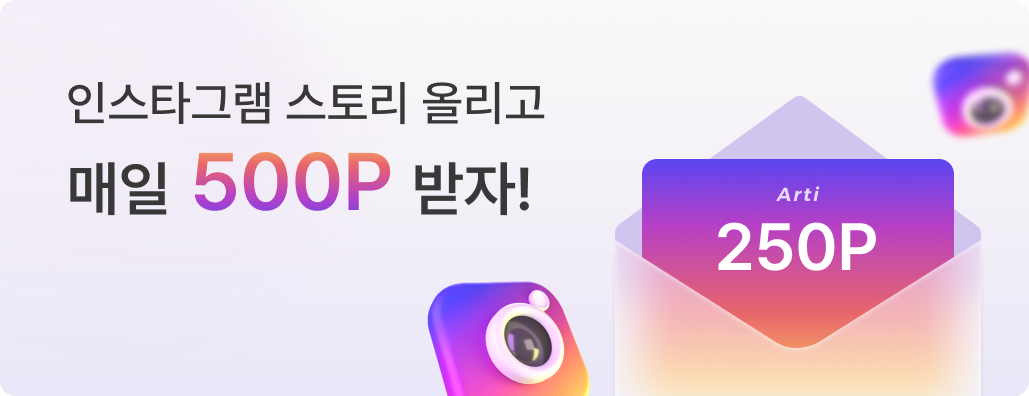
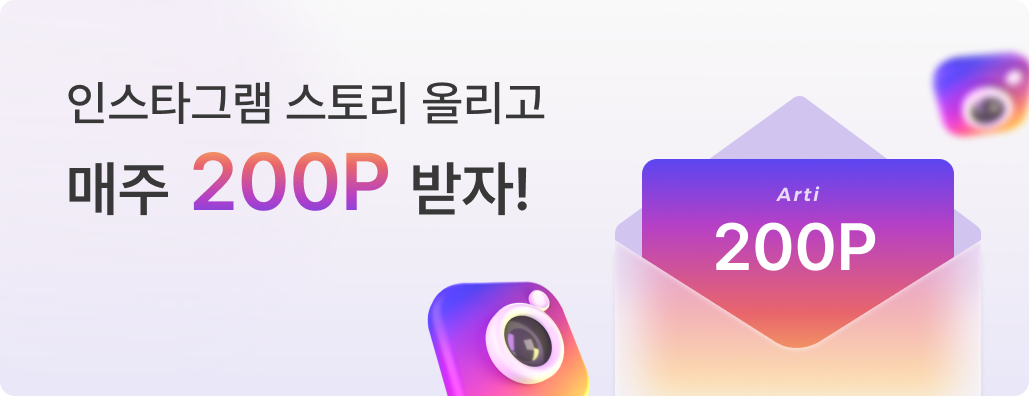
chore : 변경사항 반영

Changed region(s): [[0.0622, 0.3939, 0.5287, 0.5455], [0.6842, 0.5455, 0.8397, 0.6667], [0.4043, 0.5152, 0.4354, 0.5455]]

diff --git a/src/components/getPoint/PointMain.tsx b/src/components/getPoint/PointMain.tsx
@@ -145,13 +145,13 @@ const PointMain = () => {
 						{/* 미션 안했고 월요일 아님 */}
 						{missionList?.mission.story && !isMonday ? (
 							<Group onClick={() => router.push(`/mypage/point//mission?type=story`)}>
-								<div className="point-text">500P</div>
+								<div className="point-text">200P</div>
 								<StyledFiChevronRight2 size="26px" />
 							</Group>
 						// 미션 안했고 월요일임
 						) : missionList?.mission.story && isMonday ? (
-							<Group onClick={() => alert('월요일에만 가능한 미션이에요!')}>
-								<div className="point-text">500P</div>
+							<Group onClick={() => alert('월요일에는 불가능한 미션이에요!')}>
+								<div className="point-text">200P</div>
 								<StyledFiChevronRight2 size="26px" />
 							</Group>
 						) : (
@@ -169,7 +169,7 @@ const PointMain = () => {
 							<div className="possible-circle" />
 							<div className="mission-name">친구 초대</div>
 						</Group>
-							<Group onClick={() => router.push(`/mypage/point//mission?type=freind`)}>
+							<Group onClick={() => router.push(`/mypage/point//mission?type=friend`)}>
 								<div className="point-text">1500P</div>
 								<StyledFiChevronRight2 size="26px" />
 							</Group>

diff --git a/src/components/getPoint/mission/FriendInviteMission.tsx b/src/components/getPoint/mission/FriendInviteMission.tsx
@@ -6,7 +6,7 @@ import { getInviteFreindResult, getMyInviteCode } from '@/apis/getPoint';
 import { InviteResultType } from '@/types/request';
 import useCopyClipBoard from '@/hooks/useCopyClipBoard';
 
-const FreindInviteMission = () => {
+const FriendInviteMission = () => {
 	const [inviteCode, setinviteCode] = useState<string>();
 	const [inviteResult, setinviteResult] = useState<InviteResultType>();
 	const [isCopy, onCopy] = useCopyClipBoard();
@@ -44,7 +44,7 @@ const FreindInviteMission = () => {
 			<Top>
 				<PointHeader text="친구 초대" backTo="/mypage/point" />
 				<ContentSection>
-					<StyledImage src="/img/freindMissionBanner.png" alt="친구초대 미션 배너" fill priority />
+					<StyledImage src="/img/friendMissionBanner.png" alt="친구초대 미션 배너" fill priority />
 					<CodeBox>
 						<div className="text">나의 초대 코드</div>
 						<div className="invite-code">{inviteCode}</div>
@@ -91,7 +91,7 @@ const FreindInviteMission = () => {
 	);
 };
 
-export default FreindInviteMission;
+export default FriendInviteMission;
 
 const MainWrapper = styled.div`
 	width: 100%;

diff --git a/src/components/getPoint/PointMission.tsx b/src/components/getPoint/PointMission.tsx
@@ -5,8 +5,8 @@ import CommentMission from './mission/CommentMission';
 import VoteMission from './mission/VoteMission';
 import StoryMission from './mission/StoryMission';
 import FollowMission from './mission/FollowMission';
-import FreindInviteMission from './mission/FreindInviteMission';
 import VisitMission from './mission/VisitMission';
+import FriendInviteMission from './mission/FriendInviteMission';
 
 const PointMission = () => {
 	const params = useSearchParams();
@@ -24,8 +24,8 @@ const PointMission = () => {
 				return <StoryMission />;
 			case 'follow':
 				return <FollowMission />;
-			case 'freind':
-				return <FreindInviteMission />;
+			case 'friend':
+				return <FriendInviteMission />;
 			default:
 				return <div>미션이 존재하지 않습니다</div>; // 나중에 에러 컴포넌트 반환
 		}

diff --git a/src/components/getPoint/mission/StoryMission.tsx b/src/components/getPoint/mission/StoryMission.tsx
@@ -62,7 +62,7 @@ const StoryMission = () => {
 						<StyledImage src="/img/storyBanner.png" alt="스토리 올리기 미션 배너" fill priority />
 						<Span>
 							<div className="detail">@arti_fashion_design 인스타그램 계정을</div>
-							스토리에 올리면 <span className="bold">250P</span>를 획득할 수 있어요
+							스토리에 올리면 <span className="bold">200P</span>를 획득할 수 있어요
 						</Span>
 						<div className="state">
 							<StyledImage src="/img/missionstate2.png" alt="팔로우 미션 상태" fill priority />

diff --git a/src/components/getPoint/mission/FollowMission.tsx b/src/components/getPoint/mission/FollowMission.tsx
@@ -64,7 +64,7 @@ const FollowMission = () => {
 						<StyledImage src="/img/followBanner.png" alt="팔로우 미션 배너" fill priority />
 						<Span>
 							<div className="detail">@arti_fashion_design 인스타그램 계정을</div>
-							팔로우하면 <span className="bold">250P</span>를 획득할 수 있어요
+							팔로우하면 <span className="bold">500P</span>를 획득할 수 있어요
 						</Span>
 						<div className="state">
 							<StyledImage src="/img/missionstate2.png" alt="팔로우 미션 상태" fill priority />

diff --git a/src/components/getPoint/mission/VoteMission.tsx b/src/components/getPoint/mission/VoteMission.tsx
@@ -13,7 +13,7 @@ const VoteMission = () => {
 				<ContentSection>
 					<StyledImage src="/img/voteMissionBanner.png" alt="투표 미션 배너" fill priority />
 					<Span>
-						오늘 <span className="bold">250P</span> 더 획득할 수 있어요
+						오늘 <span className="bold">100P</span> 더 획득할 수 있어요
 					</Span>
 					<div className="text1">실물로 보고싶은 옷에 투표하기</div>
 					<RouteBtn onClick={()=>{router.push('/vote')}} >투표하고 자동으로 적립하기</RouteBtn>

diff --git a/src/components/getPoint/PointHistory.tsx b/src/components/getPoint/PointHistory.tsx
@@ -164,7 +164,6 @@ const Text = styled.div`
 	}
 	.mission-date {
 		color: #9e9e9e;
-		font-family: Pretendard Variable;
 		font-size: 1.75rem;
 		font-weight: 400;
 	}
